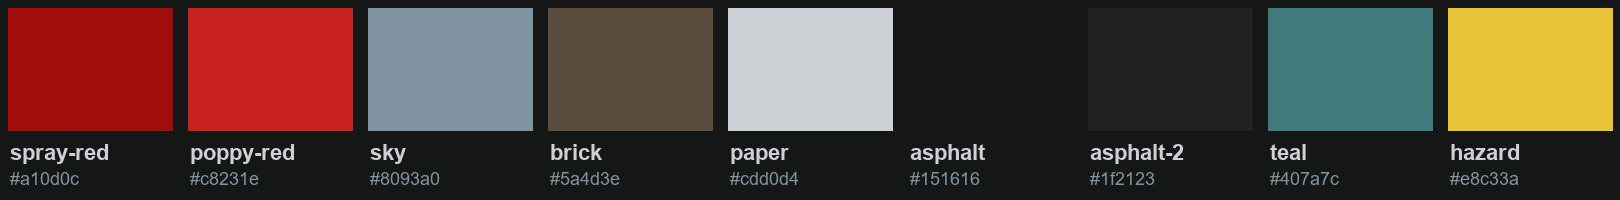
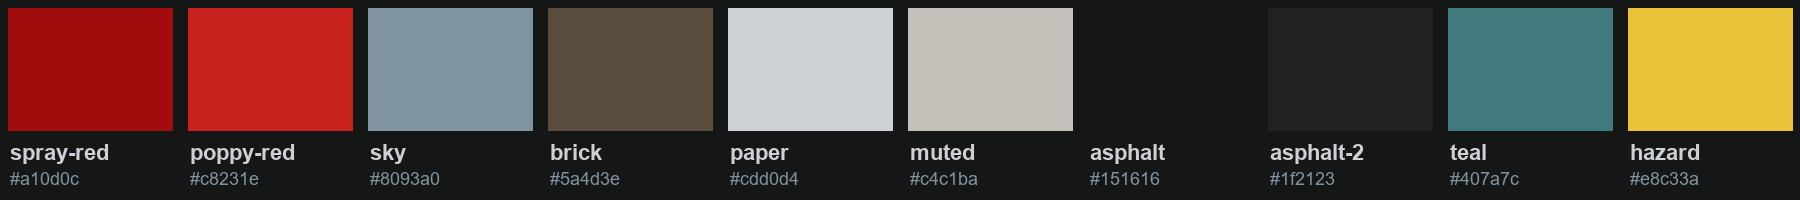
Style v0.4.2: regenerate from Dirty Rebirth tokens

diff --git a/tokens/dr.css b/tokens/dr.css
@@ -1,4 +1,4 @@
-/* Generated from Dirty Rebirth style v0.3.1 (provisional). Do not edit by hand. */
+/* Generated from Dirty Rebirth style v0.4.2 (provisional). Do not edit by hand. */
 @import url('https://fonts.googleapis.com/css2?family=Rubik+Spray+Paint&family=Exo+2&family=Big+Shoulders+Stencil+Display&display=swap');
 :root {
   --dr-spray-red: #a10d0c;
@@ -6,6 +6,7 @@
   --dr-sky: #8093a0;
   --dr-brick: #5a4d3e;
   --dr-paper: #cdd0d4;
+  --dr-muted: #c4c1ba;
   --dr-asphalt: #151616;
   --dr-asphalt-2: #1f2123;
   --dr-teal: #407a7c;
@@ -41,6 +42,10 @@
   --dr-scrim-top-height: 168px;
   --dr-scrim-bottom: linear-gradient(180deg, rgba(16,17,17,0) 0%, rgba(16,17,17,0.70) 35%, rgba(16,17,17,0.95) 100%);
   --dr-scrim-bottom-height: 300px;
+  --dr-calm-white: #d9d2cc;
+  --dr-calm-red: #a00a09;
+  --dr-calm-black: #141312;
+  --dr-calm-strength: 0.88;
   --dr-motion-paste-on-duration: 560ms;
   --dr-motion-paste-on-stagger: 70ms;
   --dr-motion-paste-on-tilt-in: 2.4deg;

diff --git a/tokens/dr.scss b/tokens/dr.scss
@@ -1,9 +1,10 @@
-// Generated from Dirty Rebirth style v0.3.1 (provisional). Do not edit by hand.
+// Generated from Dirty Rebirth style v0.4.2 (provisional). Do not edit by hand.
 $dr-spray-red: #a10d0c;
 $dr-poppy-red: #c8231e;
 $dr-sky: #8093a0;
 $dr-brick: #5a4d3e;
 $dr-paper: #cdd0d4;
+$dr-muted: #c4c1ba;
 $dr-asphalt: #151616;
 $dr-asphalt-2: #1f2123;
 $dr-teal: #407a7c;
@@ -39,6 +40,10 @@ $dr-scrim-top: linear-gradient(180deg, rgba(16,17,17,0.90) 0%, rgba(16,17,17,0.6
 $dr-scrim-top-height: 168px;
 $dr-scrim-bottom: linear-gradient(180deg, rgba(16,17,17,0) 0%, rgba(16,17,17,0.70) 35%, rgba(16,17,17,0.95) 100%);
 $dr-scrim-bottom-height: 300px;
+$dr-calm-white: #d9d2cc;
+$dr-calm-red: #a00a09;
+$dr-calm-black: #141312;
+$dr-calm-strength: 0.88;
 $dr-motion-paste-on-duration: 560ms;
 $dr-motion-paste-on-stagger: 70ms;
 $dr-motion-paste-on-tilt-in: 2.4deg;

diff --git a/tokens/tailwind.preset.js b/tokens/tailwind.preset.js
@@ -1,4 +1,4 @@
-// Generated from Dirty Rebirth style v0.3.1 (provisional). Do not edit by hand.
+// Generated from Dirty Rebirth style v0.4.2 (provisional). Do not edit by hand.
 // Use: presets: [require("./tailwind.preset.js")] in tailwind.config.js
 module.exports = {
   theme: {
@@ -9,6 +9,7 @@ module.exports = {
         'sky': '#8093a0',
         'brick': '#5a4d3e',
         'paper': '#cdd0d4',
+        'muted': '#c4c1ba',
         'asphalt': '#151616',
         'asphalt-2': '#1f2123',
         'teal': '#407a7c',

diff --git a/AGENTS.md b/AGENTS.md
@@ -1,4 +1,4 @@
-# Instructions for AI assistants: apply the Dirty Rebirth style (v0.3.1)
+# Instructions for AI assistants: apply the Dirty Rebirth style (v0.4.2)
 
 You are styling a project in the **Dirty Rebirth** look. Stylised realism in evacuated London, told through street graffiti. Painted, not photographed. Between realistic and cartoony, like Dirty Bomb. Overcast cool daylight, wet streets, Victorian brick railway arches, layered resistance graffiti (red and black stencils, tags, colourful throw-ups), clean white-and-yellow quarantine barriers, and red poppies growing through the cracks.
 
@@ -17,6 +17,7 @@ You are styling a project in the **Dirty Rebirth** look. Stylised realism in eva
 - `#8093a0` **sky**: Cool neutral: secondary text, borders, quiet surfaces.
 - `#5a4d3e` **brick**: Warm neutral: panels, cards, dividers.
 - `#cdd0d4` **paper**: Primary text on dark; paper/poster surfaces.
+- `#c4c1ba` **muted**: The DIMMEST text allowed: secondary values, captions, the legal line. Passes 4.5:1 as rendered on calm dark paper at every window size (check-text-legibility.py; #b3b0a8 read 4.5:1 at 1100x720, too close). Never lower text contrast with opacity - use this.
 - `#151616` **asphalt**: Page background.
 - `#1f2123` **asphalt-2**: Raised surface on the page background.
 - `#407a7c` **teal**: Rare secondary accent (graffiti throw-ups). Use sparingly.
@@ -48,6 +49,7 @@ text-sm 14px, text-md 16px, text-lg 20px, text-xl 28px, text-2xl 40px, space-1 4
 - Text stays generous (16px body minimum). Paragraphs are 20 words or fewer. No em dashes in UI copy.
 - Buttons carry words, not stock icons or decorative chevrons.
 - Textures over flat fills: paper, brick, spray overspray and drips, tape, torn poster edges.
+- Texture never sits behind letters. Every word printed on paper gets a calm wash in that paper's own colour (surface.calm-*), and every text element must pass the legibility check (contrast and background noise, measured on screen).
 - Nothing perfectly symmetrical: panels rest slightly off-angle, the home card bleeds off the edge.
 - Motion feels physical (paper settling, paint spraying, rain), never glowing or bouncy. See motion.banned.
 - Corners are nearly square (2px). Nothing pill-shaped.

diff --git a/README.md b/README.md
@@ -1,6 +1,6 @@
 # Dirty Rebirth style guide
 
-> **v0.3.1 · provisional.** Stylised realism in evacuated London, told through street graffiti.
+> **v0.4.2 · provisional.** Stylised realism in evacuated London, told through street graffiti.
 
 ![palette](swatches.png)
 
@@ -28,6 +28,7 @@ Also here: [SCSS](tokens/dr.scss) · [Tailwind preset](tokens/tailwind.preset.js
 | `--dr-sky` | `#8093a0` | Cool neutral: secondary text, borders, quiet surfaces. |
 | `--dr-brick` | `#5a4d3e` | Warm neutral: panels, cards, dividers. |
 | `--dr-paper` | `#cdd0d4` | Primary text on dark; paper/poster surfaces. |
+| `--dr-muted` | `#c4c1ba` | The DIMMEST text allowed: secondary values, captions, the legal line. Passes 4.5:1 as rendered on calm dark paper at every window size (check-text-legibility.py; #b3b0a8 read 4.5:1 at 1100x720, too close). Never lower text contrast with opacity - use this. |
 | `--dr-asphalt` | `#151616` | Page background. |
 | `--dr-asphalt-2` | `#1f2123` | Raised surface on the page background. |
 | `--dr-teal` | `#407a7c` | Rare secondary accent (graffiti throw-ups). Use sparingly. |
@@ -45,6 +46,7 @@ Also here: [SCSS](tokens/dr.scss) · [Tailwind preset](tokens/tailwind.preset.js
 - Text stays generous (16px body minimum). Paragraphs are 20 words or fewer. No em dashes in UI copy.
 - Buttons carry words, not stock icons or decorative chevrons.
 - Textures over flat fills: paper, brick, spray overspray and drips, tape, torn poster edges.
+- Texture never sits behind letters. Every word printed on paper gets a calm wash in that paper's own colour (surface.calm-*), and every text element must pass the legibility check (contrast and background noise, measured on screen).
 - Nothing perfectly symmetrical: panels rest slightly off-angle, the home card bleeds off the edge.
 - Motion feels physical (paper settling, paint spraying, rain), never glowing or bouncy. See motion.banned.
 - Corners are nearly square (2px). Nothing pill-shaped.

diff --git a/CHANGELOG.md b/CHANGELOG.md
@@ -1,5 +1,8 @@
 # Changelog
 
+## v0.4.2
+- Style tokens published (provisional).
+
 ## v0.3.1
 - Style tokens published (provisional).
 
